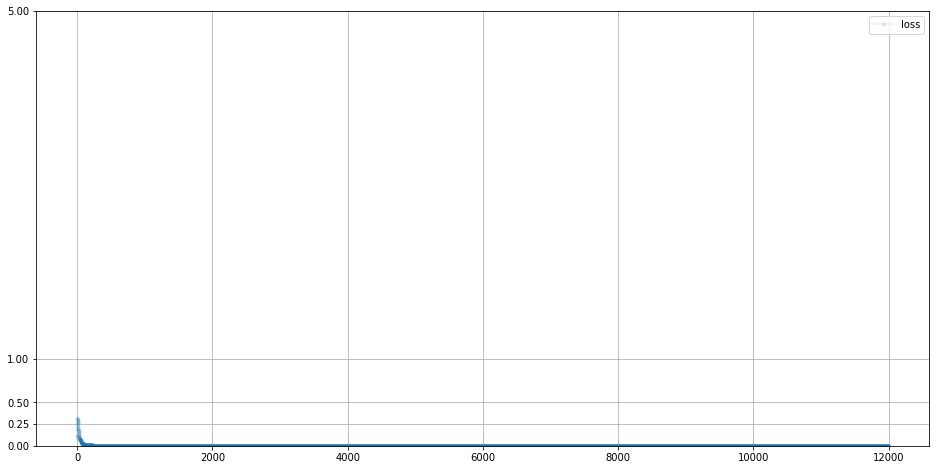
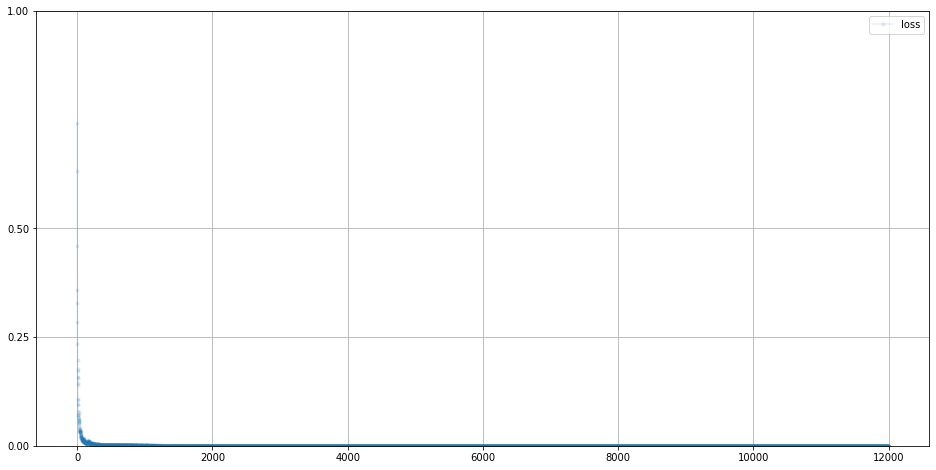
07_handwriting update

diff --git a/_posts/2022-03-30-07_training_handwriting.md b/_posts/2022-03-30-07_training_handwriting.md
@@ -1,10 +1,7 @@
----
-classes: wide
-title: "[GAN] Training Handwriting"
----
+<a href="https://colab.research.google.com/github/mucollabo/firstGAN/blob/main/07_training_handwriting.ipynb" target="_parent"><img src="https://colab.research.google.com/assets/colab-badge.svg" alt="Open In Colab"/></a>
 
-
-
+Handwritten Digits - MNIST GAN With Seed Experiments
+===
 #### Make Your First GAN With PyTorch, 20202
 
 
@@ -41,7 +38,7 @@ class MnistDataset(Dataset):
     target[label] = 1.0
 
     # 0~255의 이미지를 0~1로 정규화
-    image_values = torch.FloatTensor(self.data_df.iloc[index, 1:].values)
+    image_values = torch.FloatTensor(self.data_df.iloc[index, 1:].values) / 255.0
 
     # 레이블, 이미지 데이터 텐서, 목표 텐서 반환
     return label, image_values, target
@@ -113,8 +110,8 @@ class Discriminator(nn.Module):
     # create loss function
     self.loss_function = nn.BCELoss()
 
-    # create optimiser, simple stochastic gradient descent
-    self.optimiser = torch.optim.Adam(self.parameters(), lr=0.001)
+    # create optimiser, stochastic gradient descent
+    self.optimiser = torch.optim.SGD(self.parameters(), lr=0.01)
 
     # counter and accumulator for progress
     self.counter = 0
@@ -151,7 +148,7 @@ class Discriminator(nn.Module):
 
   def plot_progress(self):
     df = pd.DataFrame(self.progress, columns=['loss'])
-    df.plot(ylim=(0), figsize=(16, 8), alpha=0.1, marker='.', grid=True, yticks=(0, 0.25, 0.5, 1.0, 5.0))
+    df.plot(ylim=(0, 1.0), figsize=(16, 8), alpha=0.1, marker='.', grid=True, yticks=(0, 0.25, 0.5, 1.0, 5.0))
     pass
 
   pass
@@ -188,8 +185,8 @@ for label, image_data_tensor, target_tensor in mnist_dataset:
     counter =  100000
     counter =  110000
     counter =  120000
-    CPU times: user 6min, sys: 4.37 s, total: 6min 4s
-    Wall time: 6min 4s
+    CPU times: user 1min 58s, sys: 1.29 s, total: 1min 59s
+    Wall time: 2min 1s
 
 
 
@@ -215,14 +212,187 @@ for i in range(4):
   pass
 ```
 
-    1.0
-    1.0
-    1.0
-    1.0
-    1.7544524860690913e-11
-    1.776352676063908e-11
-    1.7503746715941126e-11
-    1.7660286427689798e-11
+    0.9999792575836182
+    0.9999396800994873
+    0.99997878074646
+    0.9999793767929077
+    3.7969151890138164e-05
+    4.6697099605808035e-05
+    3.3929554774658754e-05
+    2.329997187189292e-05
+
+
+
+```python
+class Generator(nn.Module):
+
+  def __init__(self):
+    # 파이토치 부모 클래스 초기화
+    super().__init__()
+
+    # 신경망 레이어 정의
+    self.model = nn.Sequential(
+        nn.Linear(1, 200),
+        nn.Sigmoid(),
+        nn.Linear(200, 784),
+        nn.Sigmoid()
+    )
+
+    # SGD 옵티마이저 설정
+    self.optimizer = torch.optim.SGD(self.parameters(), lr=0.01)
+
+    # 진행 측정을 위한 변수 초기화
+    self.counter = 0
+    self.progress = []
+
+    pass
+
+  def forward(self, inputs):
+    # 모델 실행
+    return self.model(inputs)
+
+  def train(self, D, inputs, targets):
+    # 신경망 출력 계산
+    g_output = self.forward(inputs)
+
+    # 판별기로 전달
+    d_output = D.forward(g_output)
+
+    # 오차 계산
+    loss = D.loss_function(d_output, targets)
+
+    # 카운터를 증가시키고 10회마다 오차 저장
+    self.counter += 1
+    if (self.counter % 10 == 0):
+      self.progress.append(loss.item())
+      pass
+
+    # 기울기를 초기화하고 역전파 후 가중치 갱신
+    self.optimizer.zero_grad()
+    loss.backward()
+    self.optimizer.step()
+
+    pass
+
+  def plot_progress(self):
+    df = pd.DataFrame(self.progress, columns=['loss'])
+    df.plot(ylim=(0, 1.0), figsize=(16, 8), alpha=0.1, marker='.', grid=True, yticks=(0, 0.25, 0.5, 1.0, 5.0))
+    pass
+
+  pass
+
+```
+
+Test Generator Output
+===
+
+
+```python
+# check the generator output is of the right type and shape
+
+G = Generator()
+
+output = G.forward(generate_random_seed(1))
+img = output.detach().numpy().reshape(28, 28)
+plt.imshow(img, interpolation='none', cmap='Blues')
+```
+
+
+
+
+    <matplotlib.image.AxesImage at 0x7f769fbc3610>
+
+
+
+
+![png](../assets/images/07_training_handwriting_files/07_training_handwriting_17_1.png)
+
+
+Train GAN
+===
+
+
+```python
+%%time 
+
+# create Discriminator and Generator
+
+D = Discriminator()
+G = Generator()
+
+
+# train Discriminator and Generator
+
+for label, image_data_tensor, target_tensor in mnist_dataset:
+  # train discriminator on true
+  D.train(image_data_tensor, torch.FloatTensor([1.0]))
+    
+  # train discriminator on false
+  # use detach() so gradients in G are not calculated
+  D.train(G.forward(generate_random_seed(1)).detach(), torch.FloatTensor([0.0]))
+    
+  # train generator
+  G.train(D, generate_random_seed(1), torch.FloatTensor([1.0]))
+
+  pass
+
+```
+
+    counter =  10000
+    counter =  20000
+    counter =  30000
+    counter =  40000
+    counter =  50000
+    counter =  60000
+    counter =  70000
+    counter =  80000
+    counter =  90000
+    counter =  100000
+    counter =  110000
+    counter =  120000
+    CPU times: user 3min 16s, sys: 2.5 s, total: 3min 18s
+    Wall time: 3min 24s
+
+
+
+```python
+# plot discriminator error
+
+D.plot_progress()
+```
+
+
+![png](../assets/images/07_training_handwriting_files/07_training_handwriting_20_0.png)
+
+
+
+```python
+# plot generator error
+
+G.plot_progress()
+```
+
+
+![png](../assets/images/07_training_handwriting_files/07_training_handwriting_21_0.png)
+
+
+
+```python
+# plot several outputs from the trained generator
+
+# plot a 3 column, 2 row array of generated images
+f, axarr = plt.subplots(2, 3, figsize=(16, 8))
+for i in range(2):
+  for j in range(3):
+    output = G.forward(generate_random_seed(1))
+    img = output.detach().numpy().reshape(28, 28)
+    axarr[i, j].imshow(img, interpolation='none', cmap='Blues')
+    pass
+  pass
+```
+
+
+![png](../assets/images/07_training_handwriting_files/07_training_handwriting_22_0.png)
 
 
 
